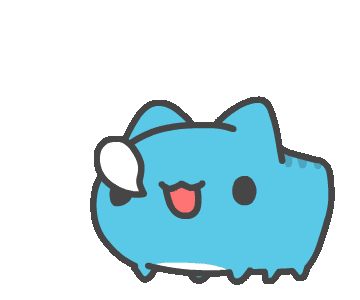
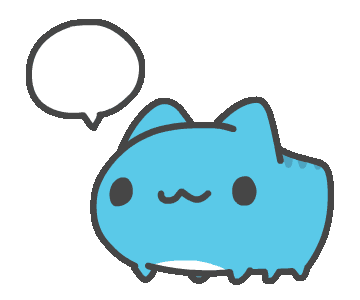
Meme: capoo_say support multiple texts

diff --git a/meme_generator/memes/capoo_say/__init__.py b/meme_generator/memes/capoo_say/__init__.py
@@ -11,32 +11,32 @@ from meme_generator.utils import save_gif
 img_dir = Path(__file__).parent / "images"
 
 
-def capoo_say(images, texts: List[str], args):
-    text = texts[0]
+def capoo_say_one_loop(text: str) -> List[IMG]:
     text_frame = BuildImage.new("RGBA", (80, 80))
     try:
         text_frame.draw_text(
             (0, 0, 80, 80),
             text,
             max_fontsize=80,
-            min_fontsize=30,
+            min_fontsize=20,
             allow_wrap=True,
             fontname="FZKaTong-M19S",
+            lines_align="center",
         )
     except ValueError:
         raise TextOverLength(text)
 
     params = [
-        (80, 80, 43, 30, 0),
-        (78, 78, 44, 30, 0),
-        (78, 78, 44, 29, 0),
-        None,
         None,
         None,
         None,
         (45, 45, 74, 112, 25),
         (73, 73, 41, 42, 17),
         (80, 80, 43, 36, 0),
+        (80, 80, 43, 30, 0),
+        (78, 78, 44, 30, 0),
+        (78, 78, 44, 29, 0),
+        None,
     ]
 
     frames: List[IMG] = []
@@ -49,14 +49,19 @@ def capoo_say(images, texts: List[str], args):
                 text_frame.resize((x, y)).rotate(angle, expand=True), (w, h), alpha=True
             )
         frames.append(frame.image)
-    return save_gif(frames, 0.11)
+    return frames
+
+
+def capoo_say(images, texts: List[str], args):
+    frames = sum([capoo_say_one_loop(text) for text in texts], [])
+    return save_gif(frames, 0.1)
 
 
 add_meme(
     "capoo_say",
     capoo_say,
     min_texts=1,
-    max_texts=1,
+    max_texts=10,
     default_texts=["寄"],
     keywords=["咖波说"],
 )
